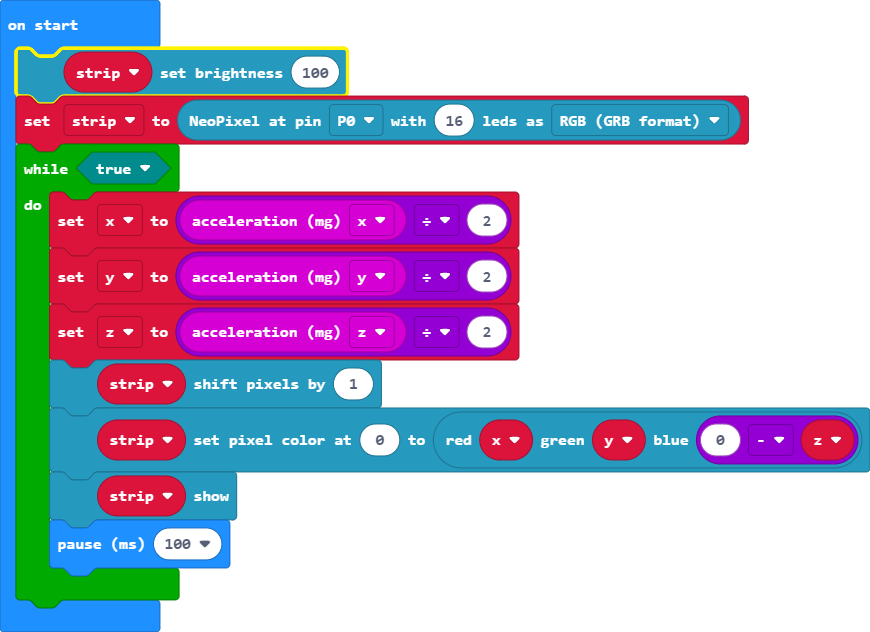
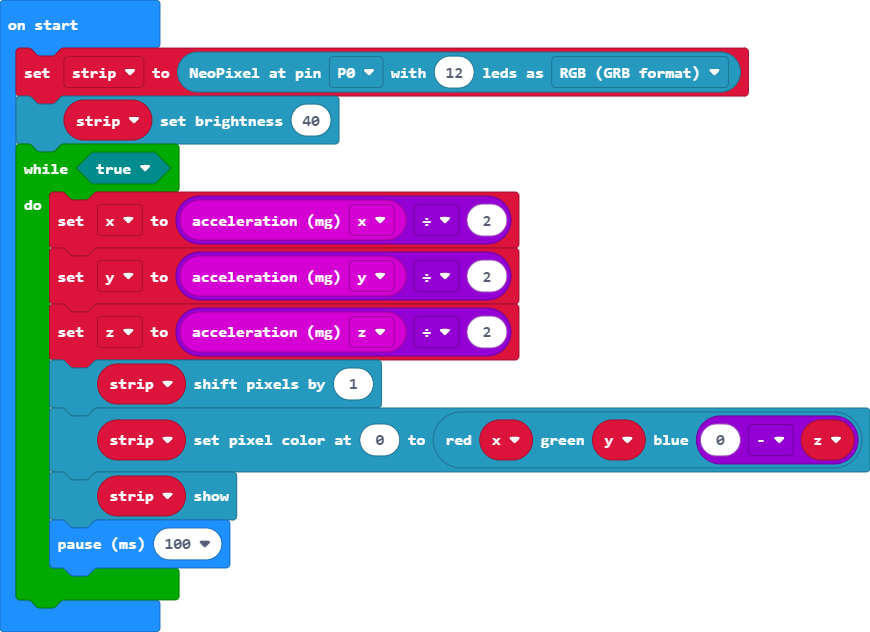
12 NeoPixel and brightness should after define the LED itself

Changed region(s): [[0.0, 0.0601, 0.869, 0.2405]]

diff --git a/main.ts b/main.ts
@@ -1,9 +1,8 @@
 let z = 0
 let y = 0
 let x = 0
-let strip: neopixel.Strip = null
-strip.setBrightness(100)
-strip = neopixel.create(DigitalPin.P0, 16, NeoPixelMode.RGB)
+let strip = neopixel.create(DigitalPin.P0, 12, NeoPixelMode.RGB)
+strip.setBrightness(40)
 while (true) {
     x = input.acceleration(Dimension.X) / 2
     y = input.acceleration(Dimension.Y) / 2
